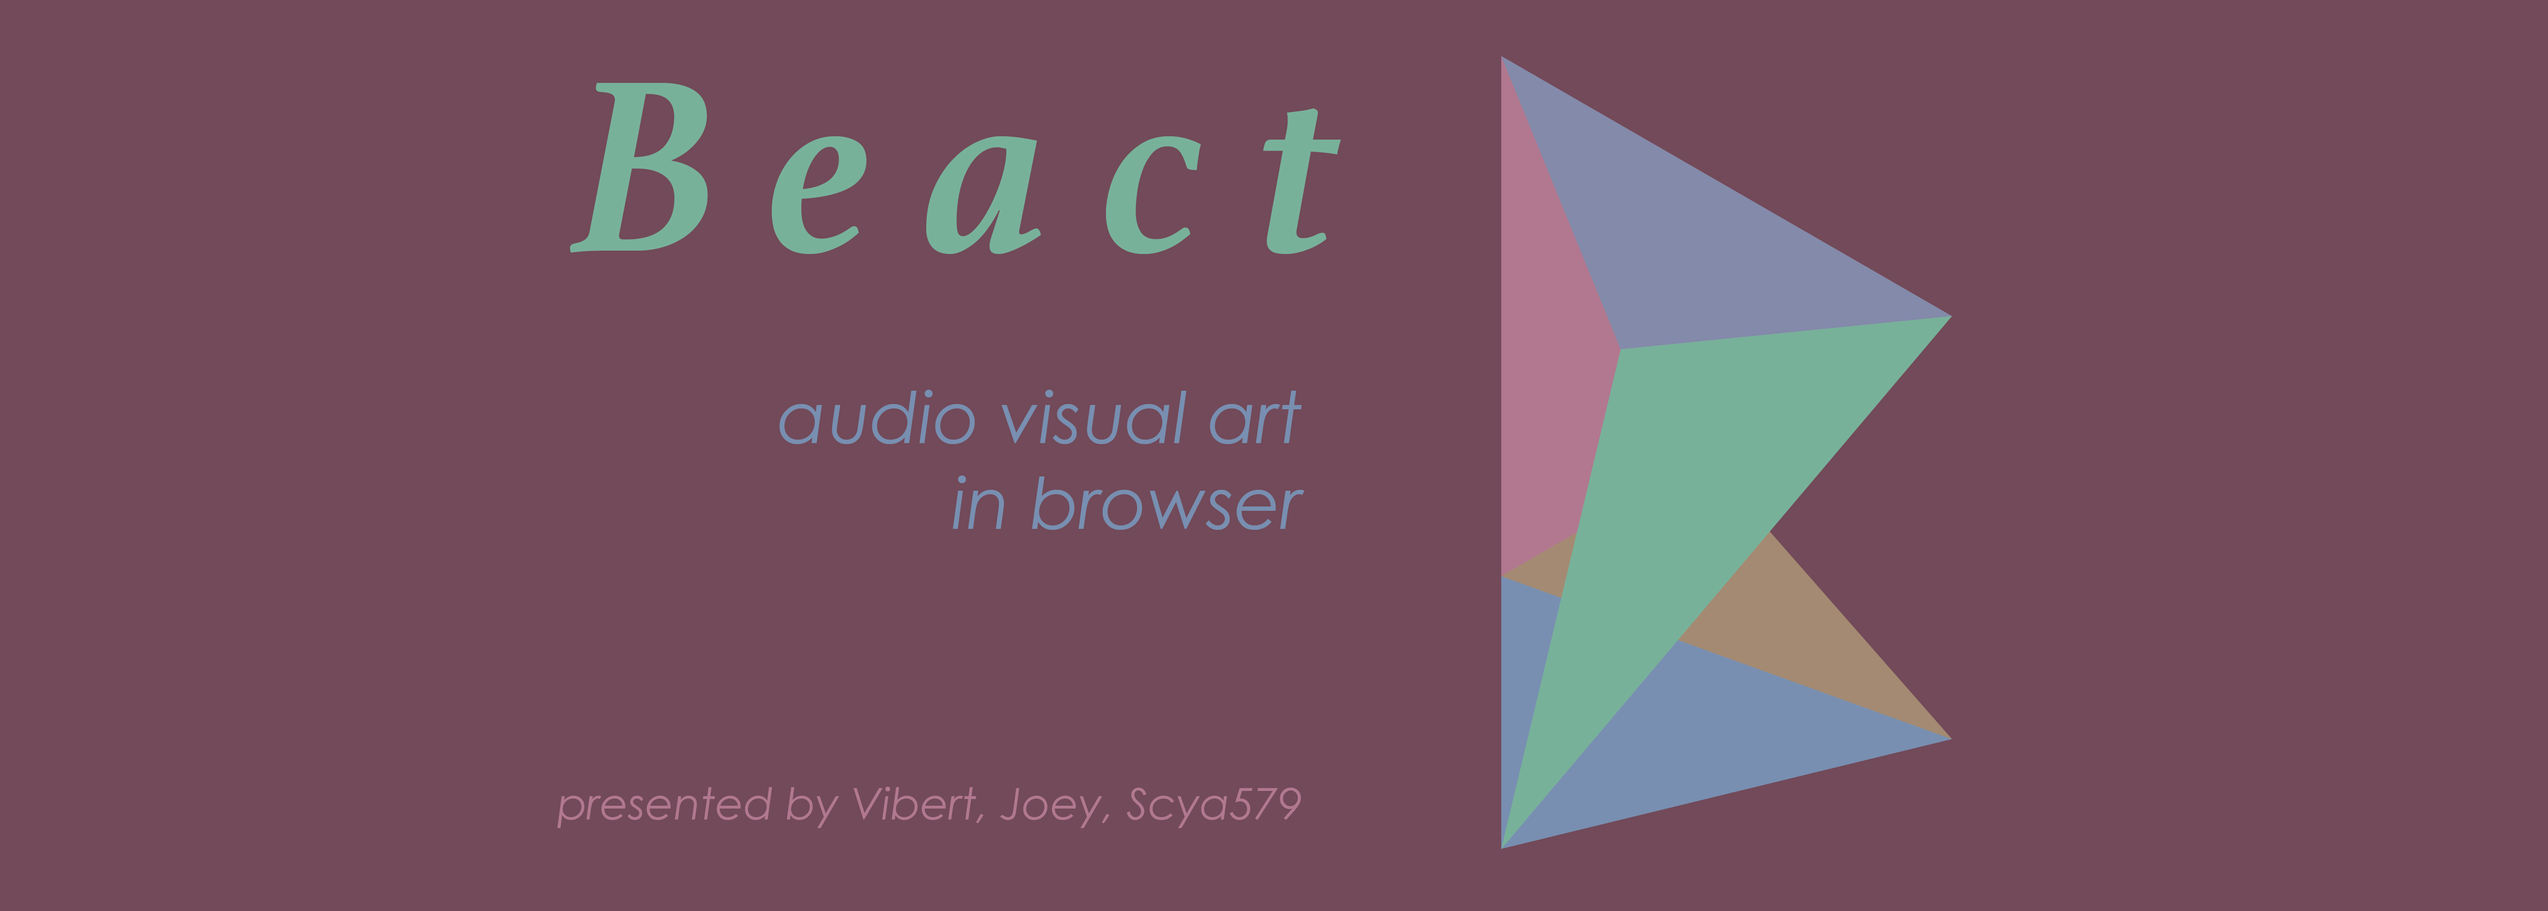
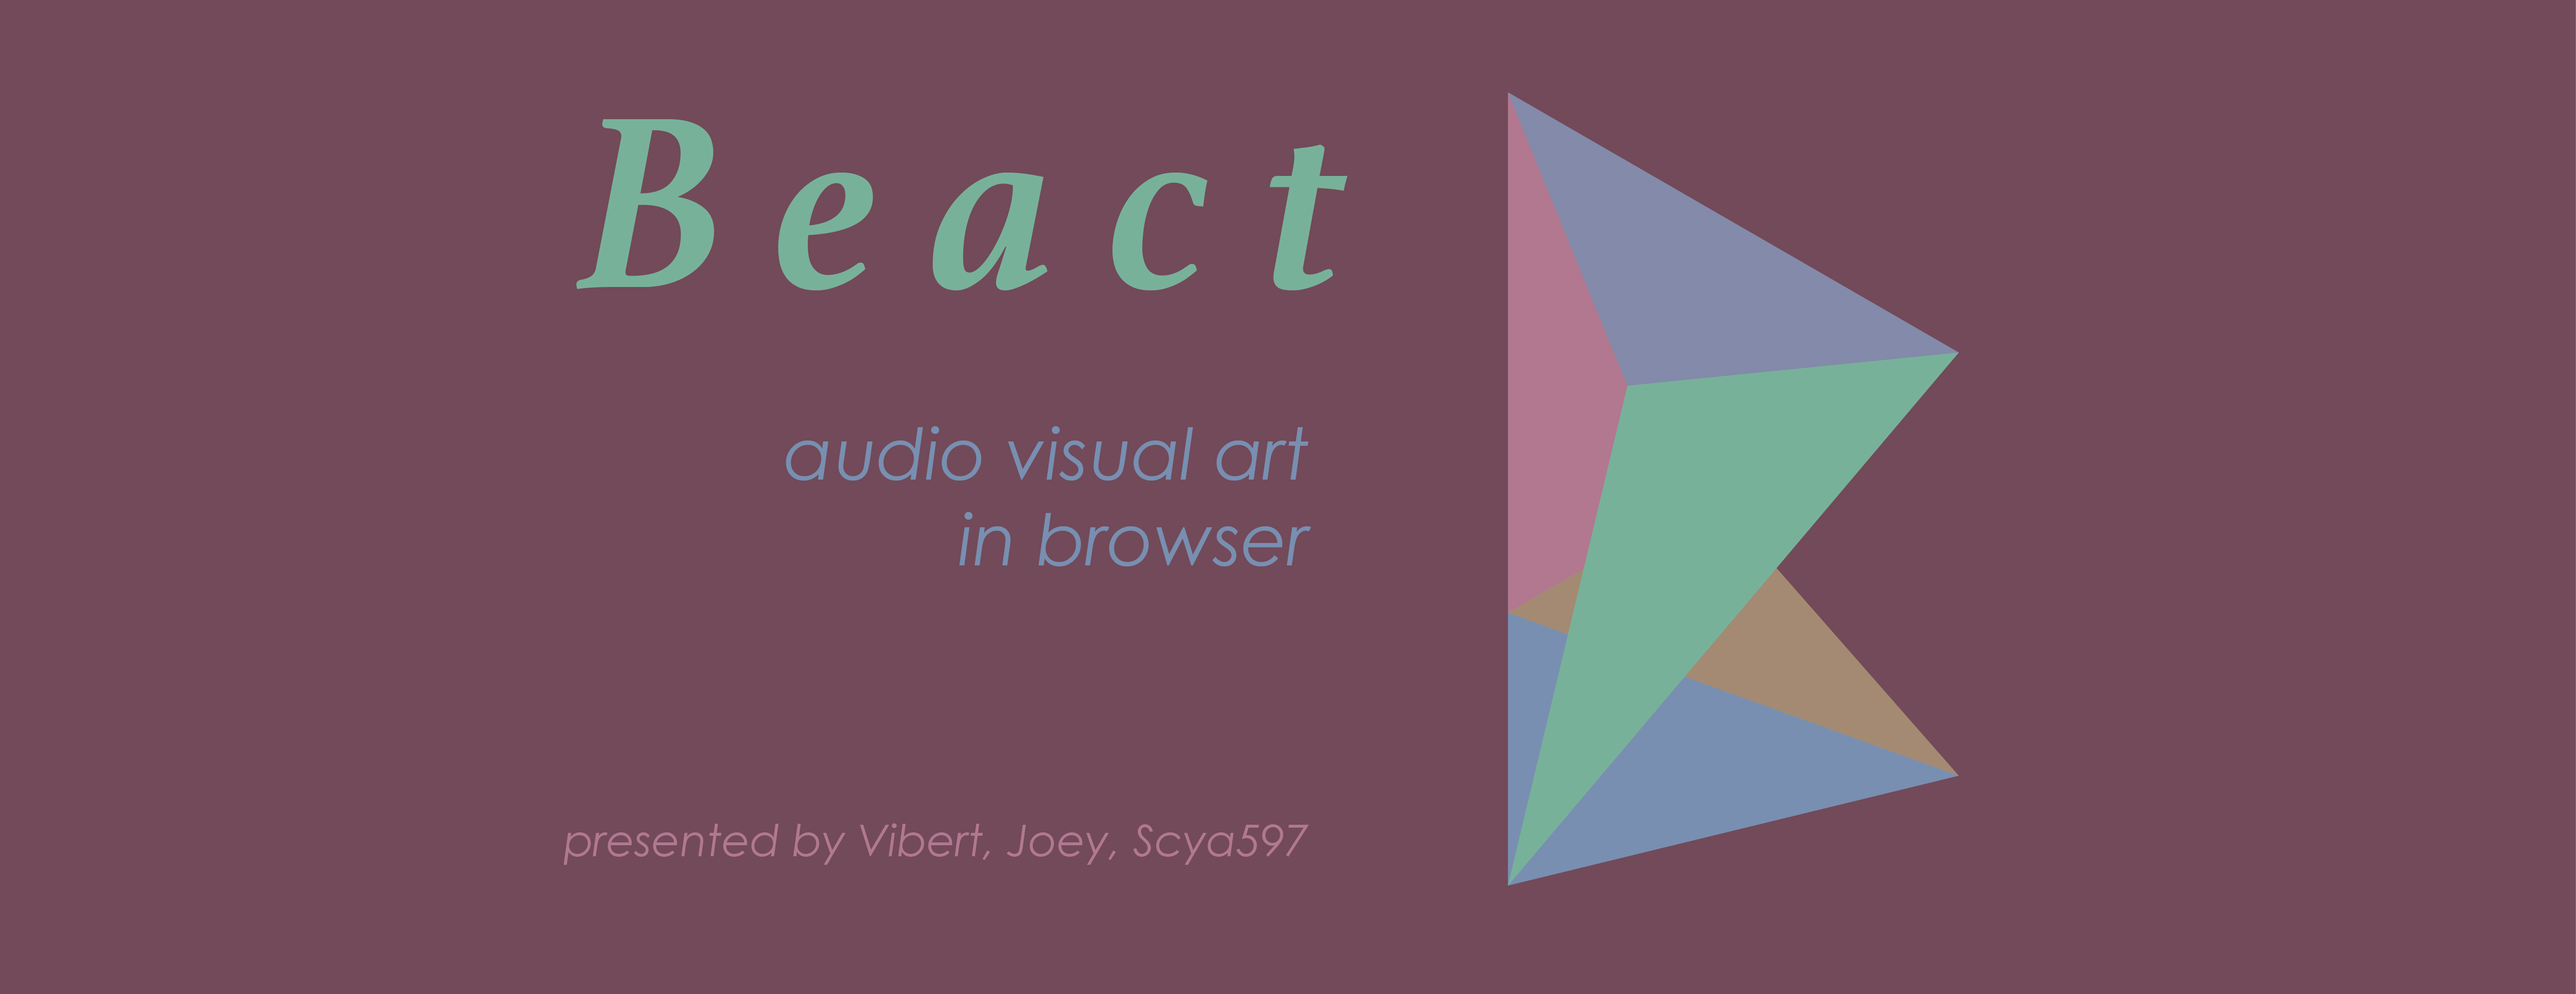
:smoking:fix patatap, scya597 wrong names:smoking:

diff --git a/README.md b/README.md
@@ -7,9 +7,9 @@
 - [blog](http://scyablog.blogspot.tw/2017/07/beact.html) - scya597's words after creating Beact! (only mandarin now, english coming)
 
 An audio/visual interactive art piece, and an instrument that everyone play with to become a DJ + VJ.
-It's based on the idea of papatap, and using two.js, tone.js as audio and visual library.
-It combines sequencer with on concept of papatap.
-I have added some my own animation and will do more to replace ones from papatap.
+It's based on the idea of patatap, and using two.js, tone.js as audio and visual library.
+It combines sequencer with on concept of patatap.
+I have added some my own animation and will do more to replace ones from patatap.
 
 
 ## 0. Table of Contents  
@@ -180,7 +180,7 @@ heroku open
 3. press up/down for bpm changing.
 4. left/right to change sound samples.
 5. press 1~8 to trigger preset patterns.
-6. press a~z to trigger animation and audio just like papatap.
+6. press a~z to trigger animation and audio just like patatap.
 
 ### 5.2 Sidebars
 1. Start / Stop
@@ -268,5 +268,5 @@ heroku open
 
 ## 7. Credits and Inspirations
   * crazi ass library [tone.js](https://tonejs.github.io/) and [two.js](https://two.js.org/)
-  * original idea from amazing [papatap](http://patatap.com/)
+  * original idea from amazing [patatap](http://patatap.com/)
   * music samples from amazing [stepkit](http://jxnblk.com/stepkit/)
